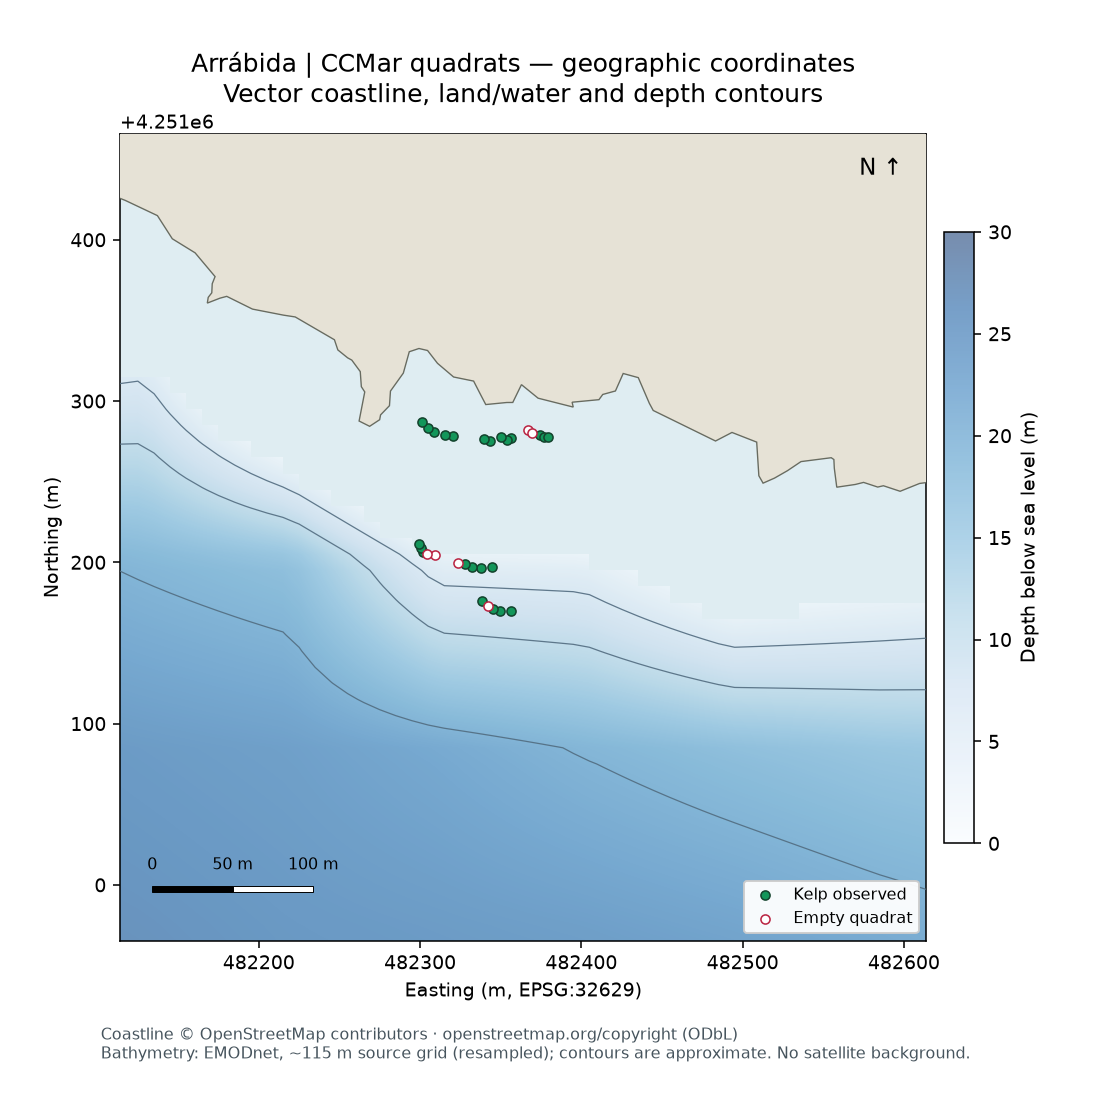
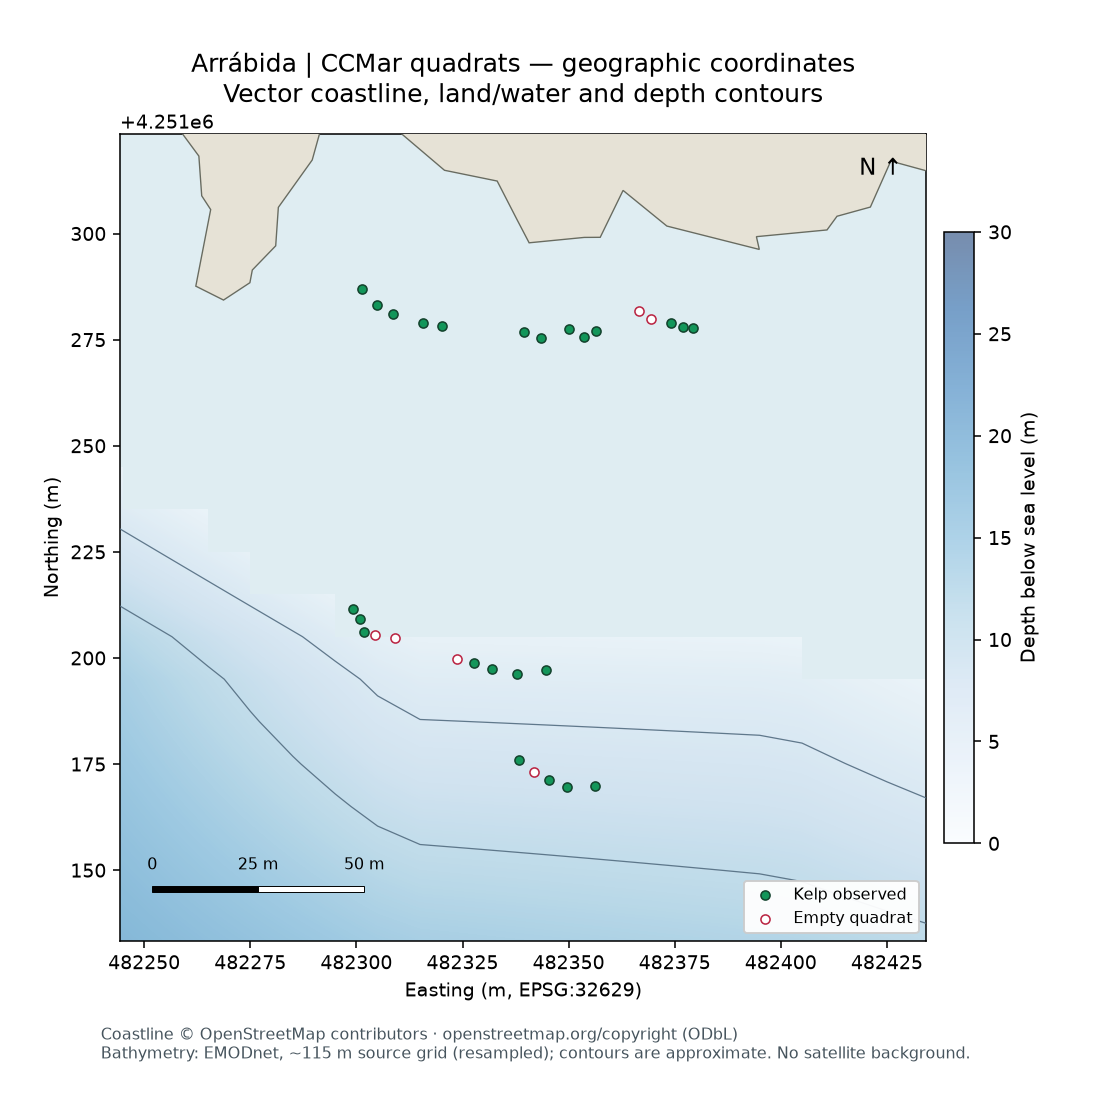
Tighten observation map around quadrat cluster

diff --git a/training/plot_cartographic_overlay.py b/training/plot_cartographic_overlay.py
@@ -85,7 +85,8 @@ def main():
                xlabel=f'Easting (m, {crs})', ylabel='Northing (m)')
         width=view[1]-view[0]; height=view[3]-view[2]
         add_scale_bar(ax, view[0]+width*.04, view[2]+height*.06,
-                      length_m=100 if width<1000 else 1000, height_m=height*.008)
+                      length_m=50 if width<300 else 100 if width<1000 else 1000,
+                      height_m=height*.008)
         ax.text(.97,.95,'N ↑',transform=ax.transAxes,ha='right',fontsize=12,zorder=7)
         title = 'CCMar quadrats — geographic coordinates' if args.observations_only else f'S2 submerged head {args.pool_label} — P(kelp)'
         ax.set_title('Arrábida | '+title+'\nVector coastline, land/water and depth contours',fontsize=13)

diff --git a/training/README.md b/training/README.md
@@ -575,7 +575,7 @@ approximately 115 m, even though this extract was resampled onto the 10 m
 prediction grid. Contours do not resolve quadrat-scale depth variation and are
 not suitable for navigation. See [EMODnet bathymetry](https://emodnet.ec.europa.eu/en/bathymetry).
 
-`sesimbra_quadrats_observations_map.png` shows a 500 m-wide observation-only
+`sesimbra_quadrats_observations_map.png` shows a 190 m-wide observation-only
 close-up. Markers retain distinct geographic coordinates; coincident coordinates
 are grouped as in the existing plotting code, with no S2-pixel snapping.
 The PNGs are rendered at 140 dpi; vector-coastline detail is independent of
@@ -583,7 +583,7 @@ prediction resolution. A cartographic coastline has no guaranteed uniform
 metre-scale accuracy.
 
 To regenerate the observation-only close-up, use the overlay command above
-with `--observations-only --zoom-around 38.4090 -9.2020 250` and
+with `--observations-only --zoom-around 38.409117 -9.202282 95` and
 `--out-prefix training/results_submerged/sesimbra_quadrats`.
 
 ### Published checkpoint paths
